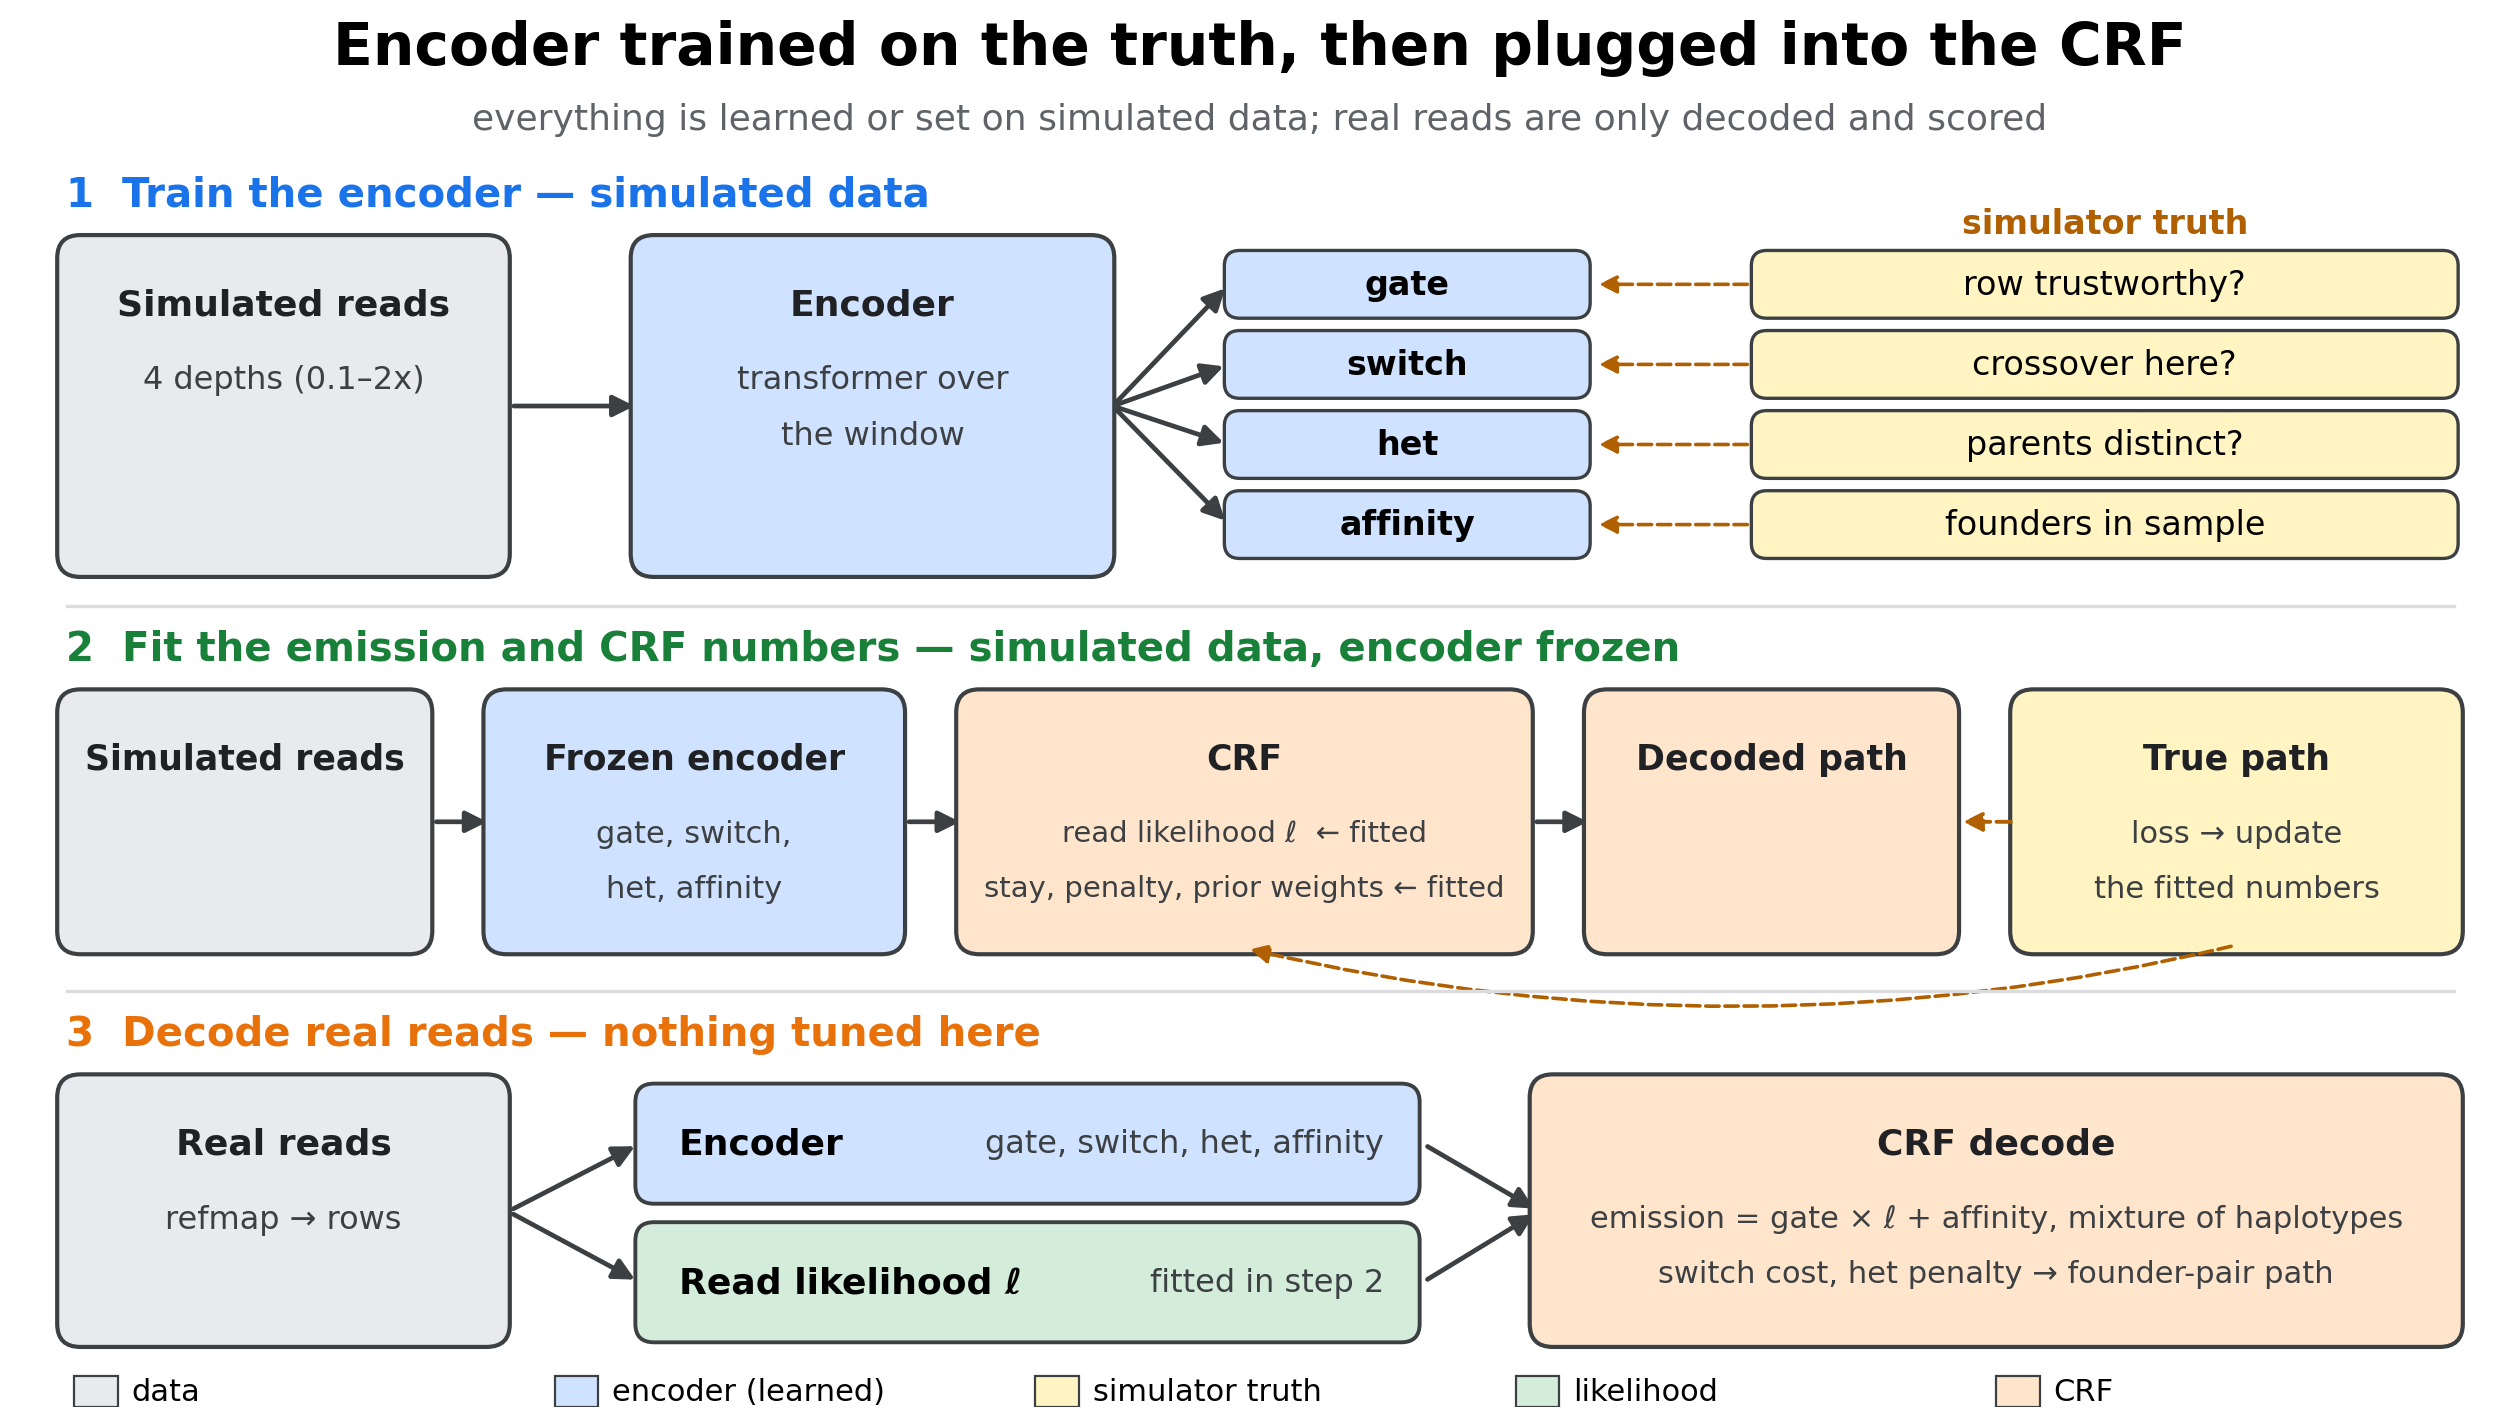
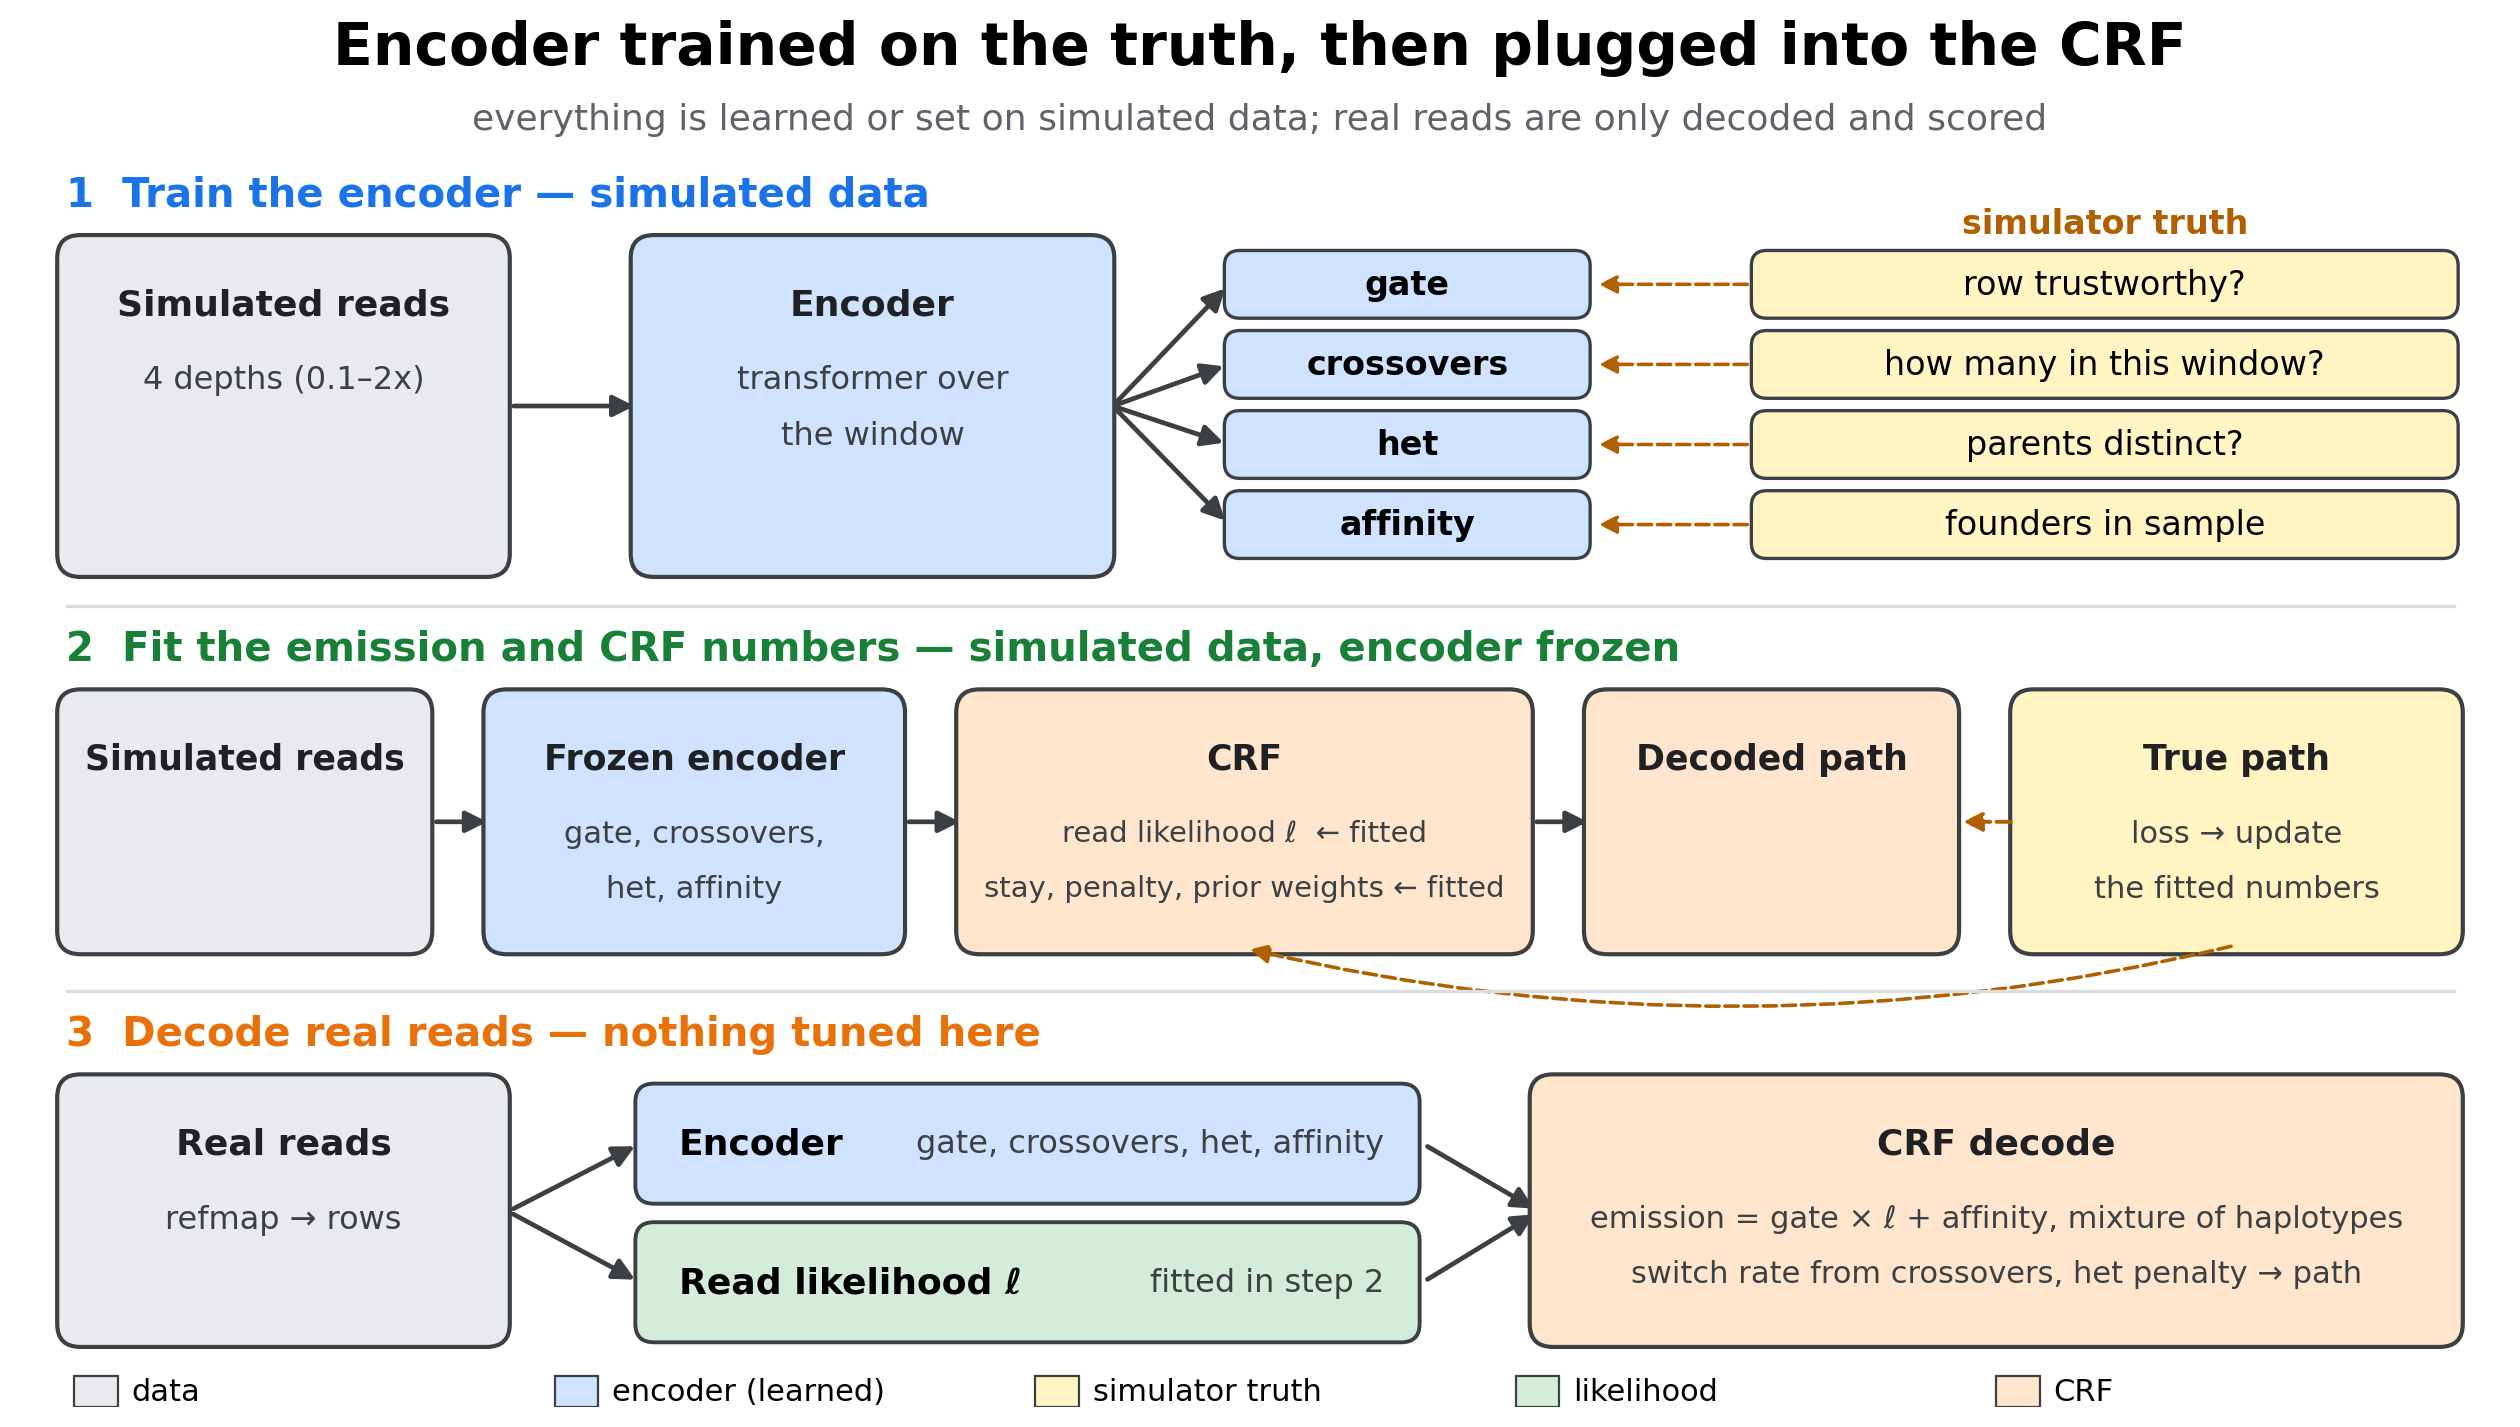
Supervised-heads diagram: window crossover-count head replaces per-row switch

diff --git a/experiments/het-replacement/scripts/supervised_heads_diagram.py b/experiments/het-replacement/scripts/supervised_heads_diagram.py
@@ -38,7 +38,7 @@ ax.text(0.3, 7.8, "1  Train the encoder — simulated data", fontsize=14.5, weig
 box(0.3, 5.45, 2.8, 2.1, C["sim"], "Simulated reads", ["4 depths (0.1–2x)"], fs=13)
 box(4.0, 5.45, 3.0, 2.1, C["enc"], "Encoder", ["transformer over", "the window"], fs=13)
 arrow(3.15, 6.5, 4.0, 6.5)
-heads = [("gate", "row trustworthy?"), ("switch", "crossover here?"), ("het", "parents distinct?"), ("affinity", "founders in sample")]
+heads = [("gate", "row trustworthy?"), ("crossovers", "how many in this window?"), ("het", "parents distinct?"), ("affinity", "founders in sample")]
 for i, (h, q) in enumerate(heads):
     y = 7.1 - 0.52 * i
     for x, w, col, txt, bold in ((7.8, 2.3, C["enc"], h, True), (11.2, 4.5, C["truth"], q, False)):
@@ -54,7 +54,7 @@ ax.plot([0.3, 15.7], [5.2, 5.2], color="#DADCE0", lw=1.2)
 # ---- 2 fit the CRF's few numbers on the encoder's outputs
 ax.text(0.3, 4.85, "2  Fit the emission and CRF numbers — simulated data, encoder frozen", fontsize=14.5, weight="bold", color="#188038")
 box(0.3, 3.0, 2.3, 1.6, C["sim"], "Simulated reads", [], fs=12.5)
-box(3.05, 3.0, 2.6, 1.6, C["enc"], "Frozen encoder", ["gate, switch,", "het, affinity"], fs=12.5, lfs=11)
+box(3.05, 3.0, 2.6, 1.6, C["enc"], "Frozen encoder", ["gate, crossovers,", "het, affinity"], fs=12.5, lfs=11)
 box(6.1, 3.0, 3.6, 1.6, C["crf"], "CRF", ["read likelihood ℓ  ← fitted", "stay, penalty, prior weights ← fitted"], fs=12.5, lfs=10.5)
 box(10.15, 3.0, 2.3, 1.6, C["crf"], "Decoded path", [], fs=12.5)
 box(12.9, 3.0, 2.8, 1.6, C["truth"], "True path", ["loss → update", "the fitted numbers"], fs=12.5, lfs=11)
@@ -67,7 +67,7 @@ ax.plot([0.3, 15.7], [2.7, 2.7], color="#DADCE0", lw=1.2)
 # ---- 3 decode real reads
 ax.text(0.3, 2.35, "3  Decode real reads — nothing tuned here", fontsize=14.5, weight="bold", color="#E8710A")
 box(0.3, 0.45, 2.8, 1.65, C["sim"], "Real reads", ["refmap → rows"], fs=13)
-for (y, col, title, sub) in ((1.35, C["enc"], "Encoder", "gate, switch, het, affinity"),
+for (y, col, title, sub) in ((1.35, C["enc"], "Encoder", "gate, crossovers, het, affinity"),
                              (0.45, C["lik"], "Read likelihood ℓ", "fitted in step 2")):
     ax.add_patch(FancyBboxPatch((4.0, y), 5.0, 0.72, boxstyle="round,pad=0.03,rounding_size=0.12",
                                 fc=col, ec=C["edge"], lw=1.4))
@@ -76,7 +76,7 @@ for (y, col, title, sub) in ((1.35, C["enc"], "Encoder", "gate, switch, het, aff
     arrow(3.15, 1.27, 4.0, y + 0.36)
     arrow(9.05, y + 0.36, 9.8, 1.27)
 box(9.8, 0.45, 5.9, 1.65, C["crf"], "CRF decode", ["emission = gate × ℓ + affinity, mixture of haplotypes",
-                                                   "switch cost, het penalty → founder-pair path"], fs=13, lfs=11)
+                                                   "switch rate from crossovers, het penalty → path"], fs=13, lfs=11)
 
 for i, (lab, c) in enumerate((("data", C["sim"]), ("encoder (learned)", C["enc"]), ("simulator truth", C["truth"]),
                               ("likelihood", C["lik"]), ("CRF", C["crf"]))):
